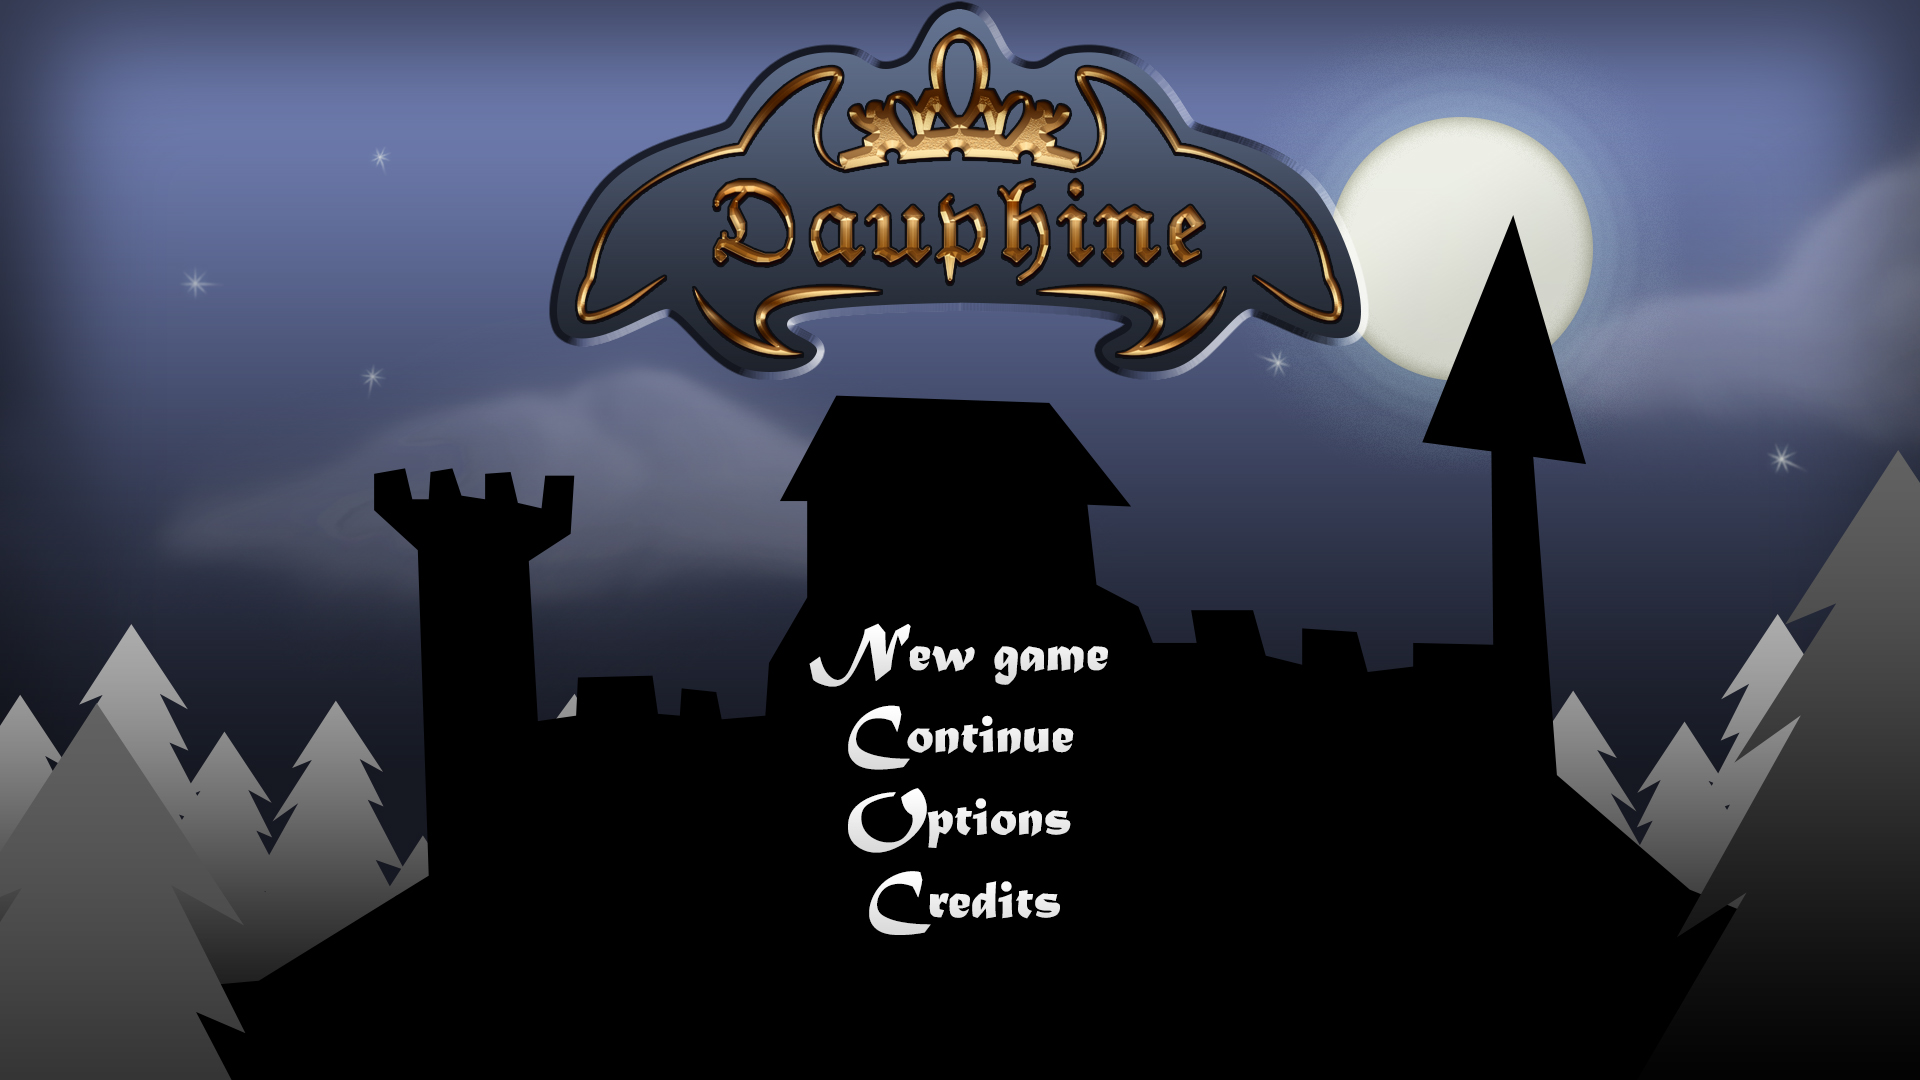
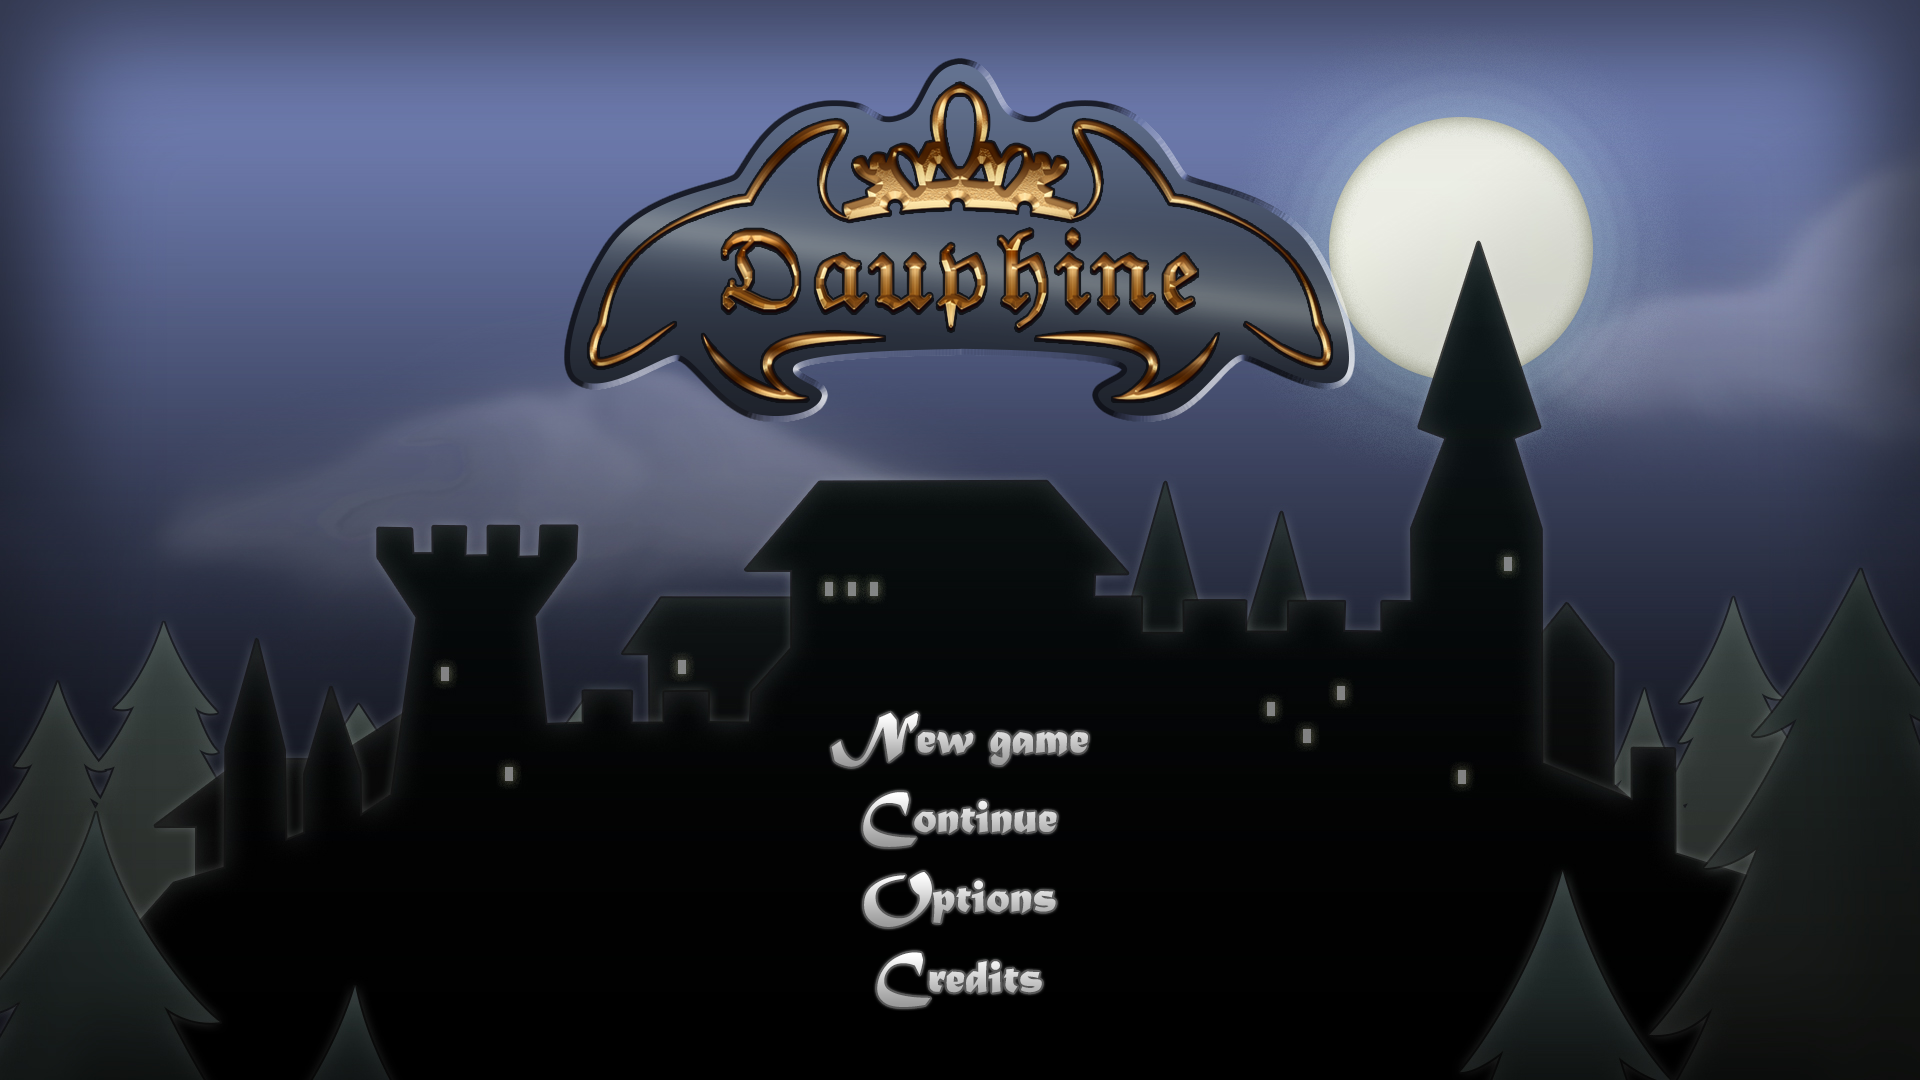
Switched title screen art to final design. Fixed cursor positioning in this screen. Needs tweaking, though.

diff --git a/src/GStateMenu.cpp b/src/GStateMenu.cpp
@@ -8,10 +8,10 @@ GStateMenu::GStateMenu() :
 	menuImage(nullptr),
 	passedTime(0.0),
 	currentSelection(Selection::NEWGAME),
-	selectorXPositionLeft {430, 455, 455, 470},
-	selectorYPositionLeft {360, 410, 465, 510},
-	selectorXPositionRight {680, 650, 650, 640},
-	selectorYPositionRight {360, 410, 465, 510}
+	selectorXPositionLeft {610, 635, 635, 645},
+	selectorYPositionLeft {560, 625, 690, 755},
+	selectorXPositionRight {880, 855, 855, 845},
+	selectorYPositionRight {560, 625, 690, 755}
 {
 
 }
